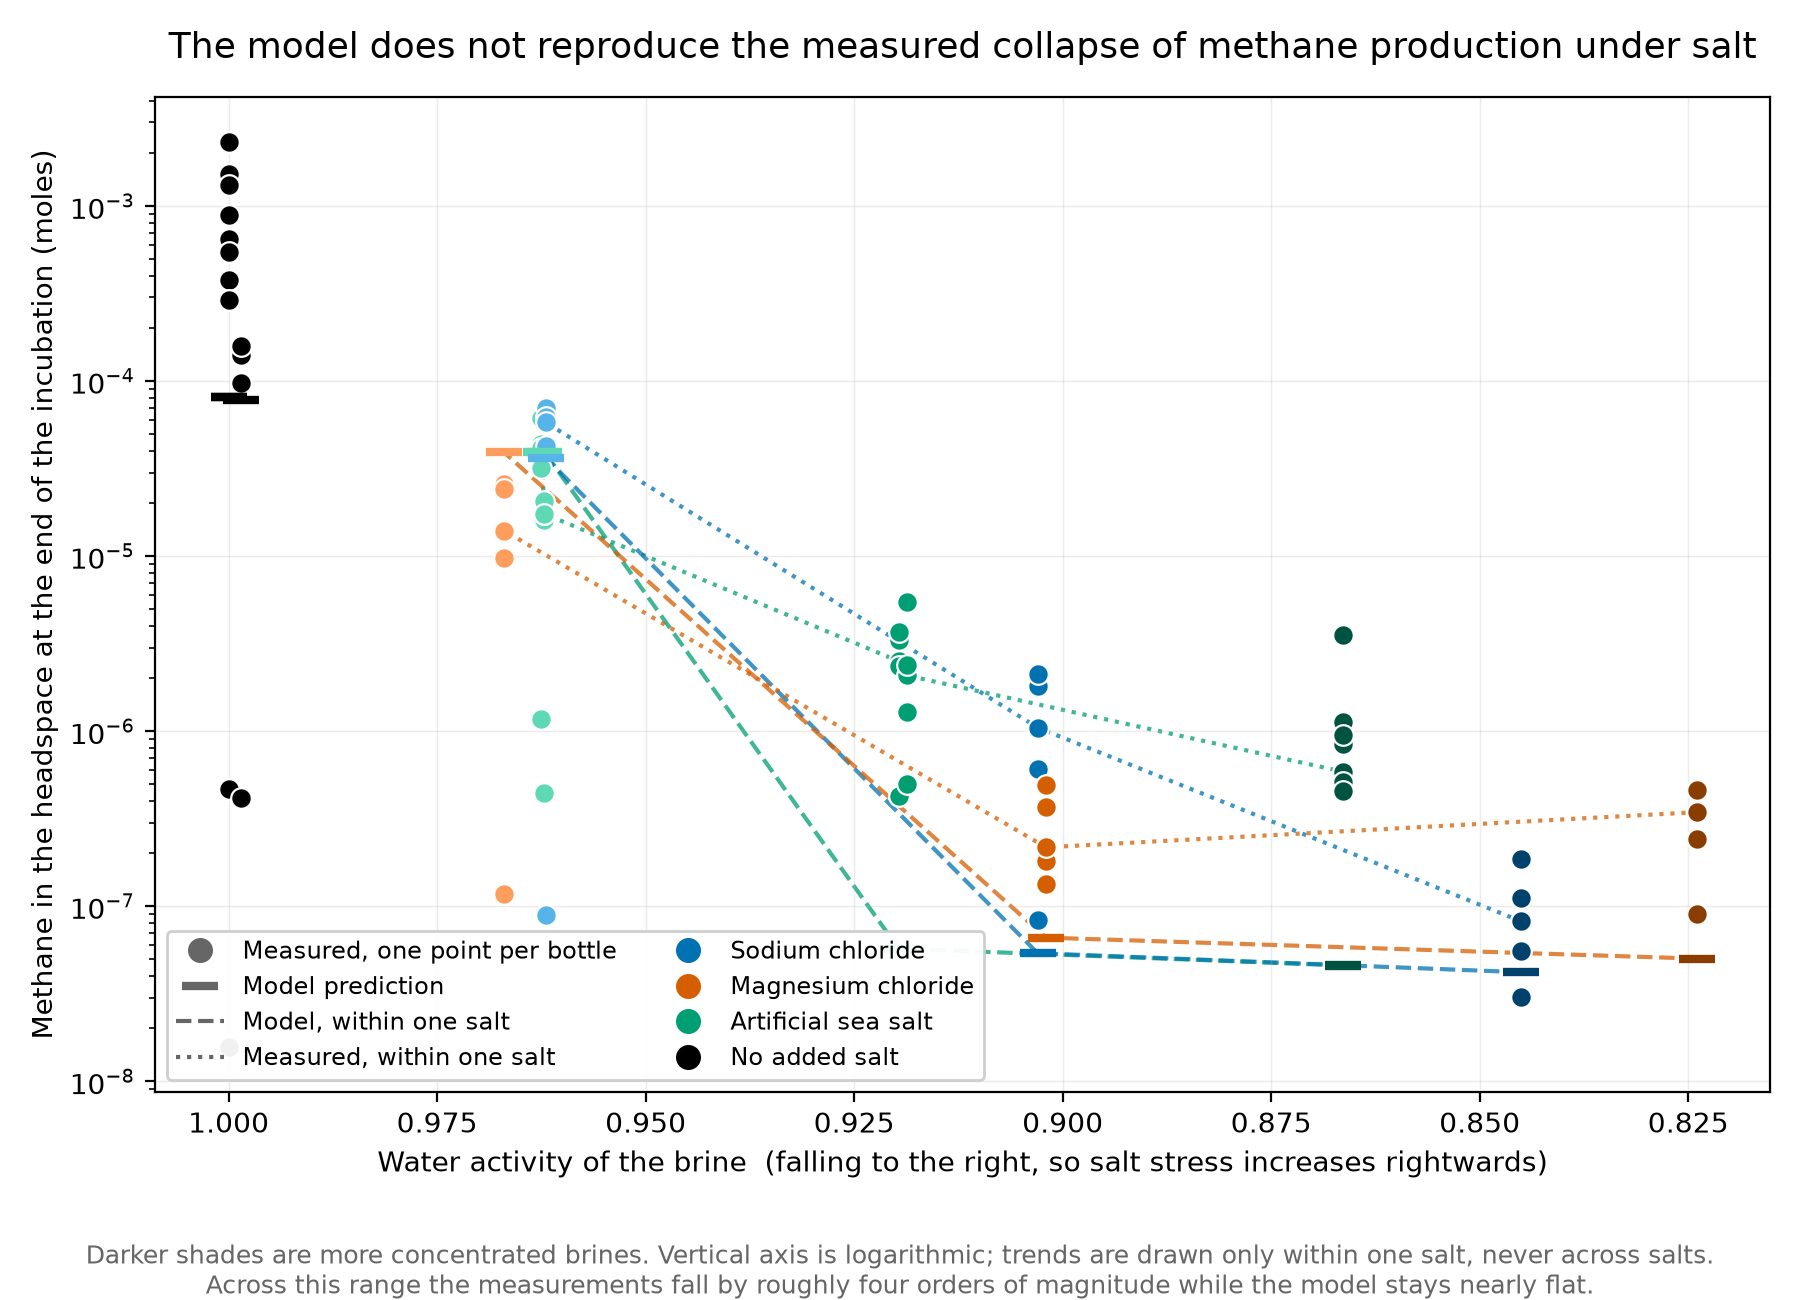
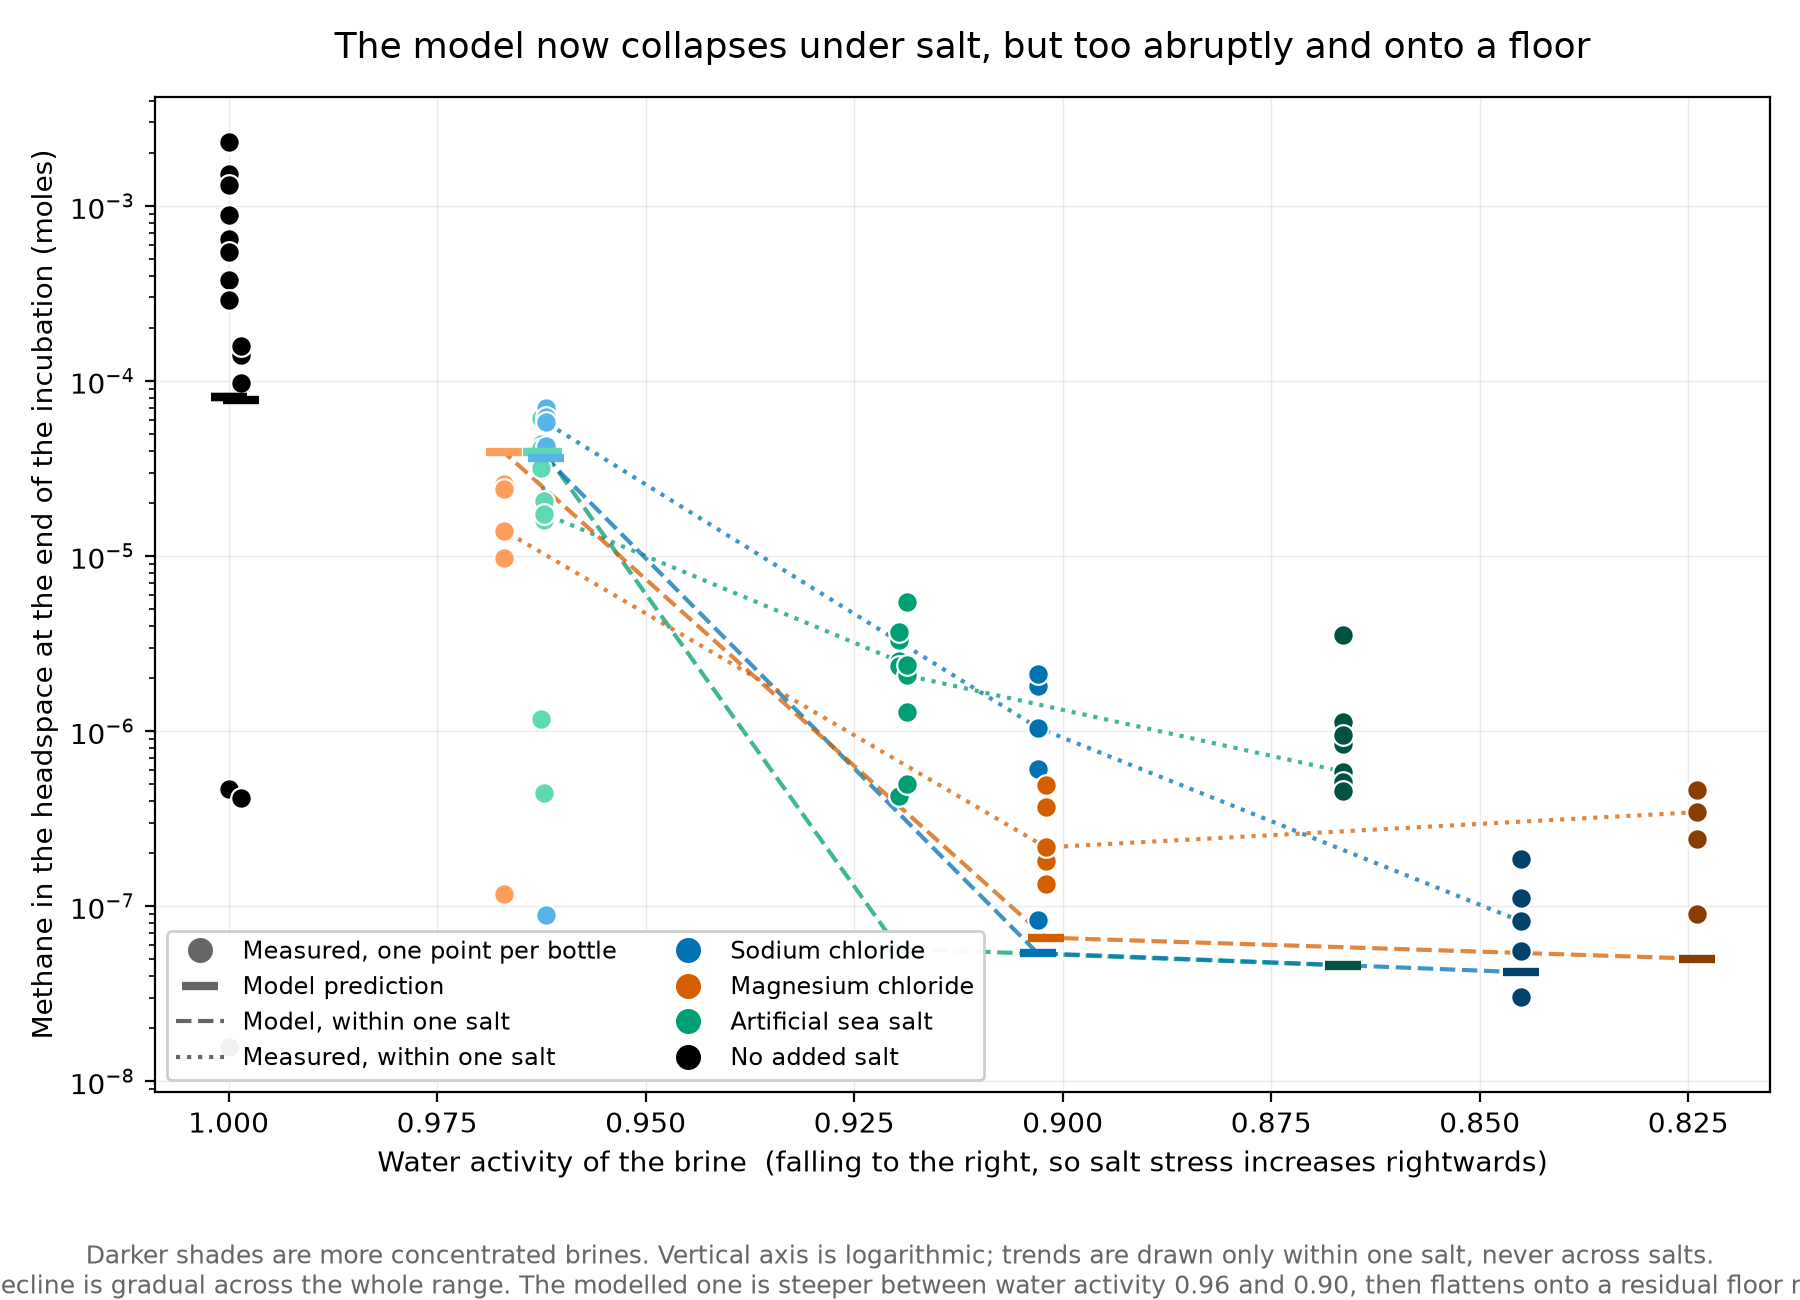
fix(figures): correct the dose-response title, which described the old result
The title and caption still said the model stays nearly flat and does not
reproduce the collapse. With the fitted salinity inhibition it does collapse --
too abruptly between water activity 0.96 and 0.90, then onto a residual floor
near 5e-8 moles. A figure whose title contradicts its own content is worse than
no title.

Changed region(s): [[0.0, 0.9846, 1.0, 1.0], [0.0933, 0.0, 0.9644, 0.0615]]

diff --git a/src/pflotran_py/comparison/figures.py b/src/pflotran_py/comparison/figures.py
@@ -362,7 +362,7 @@ def plot_methane_against_water_activity(paired, output_path):
     )
     axis.set_ylabel("Methane in the headspace at the end of the incubation (moles)")
     axis.set_title(
-        "The model does not reproduce the measured collapse of methane production under salt",
+        "The model now collapses under salt, but too abruptly and onto a floor",
         fontsize=13,
         pad=14,
     )
@@ -448,8 +448,9 @@ def plot_methane_against_water_activity(paired, output_path):
         0.005,
         "Darker shades are more concentrated brines. Vertical axis is logarithmic; trends are "
         "drawn only within one salt, never across salts.\n"
-        "Across this range the measurements fall by roughly four orders of magnitude while the "
-        "model stays nearly flat.",
+        "The measured decline is gradual across the whole range. The modelled one is steeper "
+        "between water activity 0.96 and 0.90, then flattens onto a residual floor near "
+        "5e-8 moles.",
         ha="center",
         fontsize=9,
         color=PALETTE["guide"],
